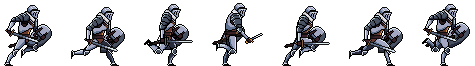
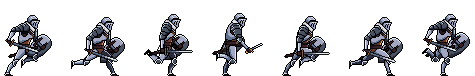
added attack and more movement to the left

diff --git a/js/playerStates.js b/js/playerStates.js
@@ -3,9 +3,12 @@ const states = {
     RUNNING: 1,
     JUMPING: 2,
     FALLING: 3,
-    RUNNINGLEFT: 4,
-    FALLINGLEFT: 5,
-    JUMPINGLEFT: 6
+    ATTACK: 4,
+    SITTINGLEFT: 5,
+    RUNNINGLEFT: 6,
+    JUMPINGLEFT: 7,
+    FALLINGLEFT: 8,
+    ATTACKLEFT: 9
 }
 
 class State {
@@ -23,7 +26,7 @@ export class Sitting extends State {
     enter() {
         this.player.createImage('./../img/Knight_1/Idle.png');
         this.player.width = 67;
-        this.player.height = 66;
+        this.player.height = 76;
         this.player.maxFrame = 3;
     }
     handleInput(input) {
@@ -31,7 +34,9 @@ export class Sitting extends State {
             this.player.setState(states.RUNNING);
         } else if (input.includes('a')) {
             this.player.setState(states.RUNNINGLEFT);
-        }  else if (input.includes('w') && input.includes('d')) {
+        } else if (input.includes('Enter')) {
+            this.player.setState(states.ATTACK);
+        } else if (input.includes('w') && input.includes('d')) {
             this.player.setState(states.JUMPING);
         } else if (input.includes('w') && input.includes('a')) {
             this.player.setState(states.JUMPINGLEFT);
@@ -47,7 +52,7 @@ export class Running extends State {
     enter() {
         this.player.createImage('./../img/Knight_1/Run.png');
         this.player.width = 69;
-        this.player.height = 66;
+        this.player.height = 76;
         this.player.maxFrame = 6;
     }
     handleInput(input) {
@@ -70,7 +75,7 @@ export class Jumping extends State {
         if (this.player.onGround() || this.player.velocity.y === 0) this.player.velocity.y -= 20;
         this.player.createImage('./../img/Knight_1/Jump1.png');
         this.player.width = 80;
-        this.player.height = 66;
+        this.player.height = 76;
         this.player.maxFrame = 0;
     }
     handleInput(input) {
@@ -97,12 +102,56 @@ export class Falling extends State {
         if (this.player.onGround()) this.player.velocity.y -= 20;
         this.player.createImage('./../img/Knight_1/Falling.png');
         this.player.width = 79;
-        this.player.height = 66;
+        this.player.height = 76;
         this.player.maxFrame = 0;
     }
     handleInput() {
         if (this.player.onGround() || this.player.velocity.y === 0) {
             this.player.setState(states.SITTING);
+        }
+    }
+}
+
+export class Attack extends State {
+    constructor(player) {
+        super('ATTACK');
+        this.player = player;
+    }
+    enter() {
+        this.player.createImage('./../img/Knight_1/Attack 2.png');
+        this.player.width = 96;
+        this.player.height = 76;
+        this.player.maxFrame = 3;
+    }
+    handleInput(input) {
+        if (!input.includes('Enter')) {
+            this.player.setState(states.SITTING);
+        }
+    }
+}
+
+export class SittingLeft extends State {
+    constructor(player) {
+        super('SITTINGLEFT');
+        this.player = player;
+    }
+    enter() {
+        this.player.createImage('./../img/Knight_1/Idleleft.png');
+        this.player.width = 66;
+        this.player.height = 76;
+        this.player.maxFrame = 3;
+    }
+    handleInput(input) {
+        if (input.includes('d')) {
+            this.player.setState(states.RUNNING);
+        } else if (input.includes('a')) {
+            this.player.setState(states.RUNNINGLEFT);
+        } else if (input.includes('Enter')) {
+            this.player.setState(states.ATTACKLEFT);
+        } else if (input.includes('w') && input.includes('d')) {
+            this.player.setState(states.JUMPING);
+        } else if (input.includes('w') && input.includes('a')) {
+            this.player.setState(states.JUMPINGLEFT);
         }
     }
 }
@@ -115,7 +164,7 @@ export class RunningLeft extends State {
     enter() {
         this.player.createImage('./../img/Knight_1/Runleft.png');
         this.player.width = 69;
-        this.player.height = 66;
+        this.player.height = 76;
         this.player.maxFrame = 6;
     }
     handleInput(input) {
@@ -124,8 +173,8 @@ export class RunningLeft extends State {
         } else if (input.includes('w') && input.includes('a')) {
             this.player.setState(states.JUMPINGLEFT);
         } else if (!input.includes('a') && !input.includes('d')) {
-            this.player.setState(states.SITTING);
-        }
+            this.player.setState(states.SITTINGLEFT);
+        } 
     }
 }
 
@@ -138,13 +187,13 @@ export class FallingLeft extends State {
         if (this.player.onGround()) this.player.velocity.y -= 20;
         this.player.createImage('./../img/Knight_1/Fallingleft.png');
         this.player.width = 79;
-        this.player.height = 66;
+        this.player.height = 76;
         this.player.maxFrame = 0;
     }
     handleInput() {
         if (this.player.onGround() || this.player.velocity.y === 0) {
-            this.player.setState(states.SITTING);
-        }
+            this.player.setState(states.SITTINGLEFT);
+        } 
     }
 }
 
@@ -157,7 +206,7 @@ export class JumpingLeft extends State {
         if (this.player.onGround() || this.player.velocity.y === 0) this.player.velocity.y -= 20;
         this.player.createImage('./../img/Knight_1/Jump1left.png');
         this.player.width = 80;
-        this.player.height = 66;
+        this.player.height = 76;
         this.player.maxFrame = 0;
     }
     handleInput(input) {
@@ -170,7 +219,25 @@ export class JumpingLeft extends State {
         } else if (!this.player.onGround() && this.player.velocity.y === 0 && input.includes('a')) {
             this.player.setState(states.FALLINGLEFT);
         } else if (this.player.velocity.y === 0) {
-            this.player.setState(states.SITTING);
+            this.player.setState(states.SITTINGLEFT);
+        }
+    }
+}
+
+export class AttackLeft extends State {
+    constructor(player) {
+        super('ATTACKLEFT');
+        this.player = player;
+    }
+    enter() {
+        this.player.createImage('./../img/Knight_1/Attack 2left.png');
+        this.player.width = 96;
+        this.player.height = 76;
+        this.player.maxFrame = 3;
+    }
+    handleInput(input) {
+        if (!input.includes('Enter')) {
+            this.player.setState(states.SITTINGLEFT);
         }
     }
 }

diff --git a/js/player.js b/js/player.js
@@ -1,10 +1,10 @@
-import { Sitting, Running, Jumping, Falling, RunningLeft, FallingLeft, JumpingLeft } from "./playerStates.js";
+import { Sitting, Running, Jumping, Falling, RunningLeft, FallingLeft, JumpingLeft, Attack, SittingLeft, AttackLeft } from "./playerStates.js";
 
 export class Player {
     constructor(game) {
         this.game = game;
         this.width;
-        this.height = 66;
+        // this.height = 0;
         this.position = {
             x: 200,
             y: 200
@@ -22,7 +22,7 @@ export class Player {
         this.frameInterval = 1000 / this.fps;
         this.frameTimer = 0;
         this.speed = 6;
-        this.states = [new Sitting(this), new Running(this), new Jumping(this), new Falling(this), new RunningLeft(this), new FallingLeft(this), new JumpingLeft(this)];
+        this.states = [new Sitting(this), new Running(this), new Jumping(this), new Falling(this), new Attack(this), new SittingLeft(this), new RunningLeft(this), new JumpingLeft(this), new FallingLeft(this), new AttackLeft(this)];
         this.currentState = this.states[0];
         this.currentState.enter();
     }
@@ -58,8 +58,9 @@ export class Player {
     }
     draw(context) {
         context.drawImage(this.image, this.frameX * this.width, 0, this.width, this.height, this.position.x, this.position.y, this.width, this.height);
+        // context.strokeRect(this.position.x, this.position.y, this.width, this.height)
         // context.beginPath();
-        // context.arc(this.position.x + this.width/2.7, this.position.y + this.height/2, this.width/2.7, 0, Math.PI * 2);
+        // context.arc(this.position.x + this.width/2.7, this.position.y + this.height/1.5, this.width/2.7, 0, Math.PI * 2);
         // context.stroke();
     }
     onGround() {

diff --git a/js/enemies.js b/js/enemies.js
@@ -48,7 +48,7 @@ export class Demon extends Enemy{
         }
         this.devider1 = 2.7;
         this.devider2 = 1.6;
-        this.devider3 = 2;
+        this.devider3 = 1.7;
         this.devider4 = 1.5;
         this.devider5 = 5;
         this.devider6 = 2;
@@ -86,7 +86,7 @@ export class FireSkull extends Enemy {
         }
         this.devider1 = 2.7;
         this.devider2 = 2.2;
-        this.devider3 = 2;
+        this.devider3 = 1.7;
         this.devider4 = 1.6;
         this.devider5 = 6;
         this.devider6 = 2.5;
@@ -114,7 +114,7 @@ export class Ghost extends Enemy {
         }
         this.devider1 = 2.7;
         this.devider2 = 2;
-        this.devider3 = 2;
+        this.devider3 = 1.7;
         this.devider4 = 2;
         this.devider5 = 6;
         this.devider6 = 4;
@@ -142,7 +142,7 @@ export class HellHound extends Enemy {
         }
         this.devider1 = 2.7;
         this.devider2 = 1.7;
-        this.devider3 = 2;
+        this.devider3 = 1.7;
         this.devider4 = 1.5;
         this.devider5 = 4.5;
         this.devider6 = 2.7;
@@ -170,7 +170,7 @@ export class Nightmare extends Enemy {
         }
         this.devider1 = 2.7;
         this.devider2 = 2;
-        this.devider3 = 2;
+        this.devider3 = 1.7;
         this.devider4 = 1.2;
         this.devider5 = 3;
         this.devider6 = 2.7;
